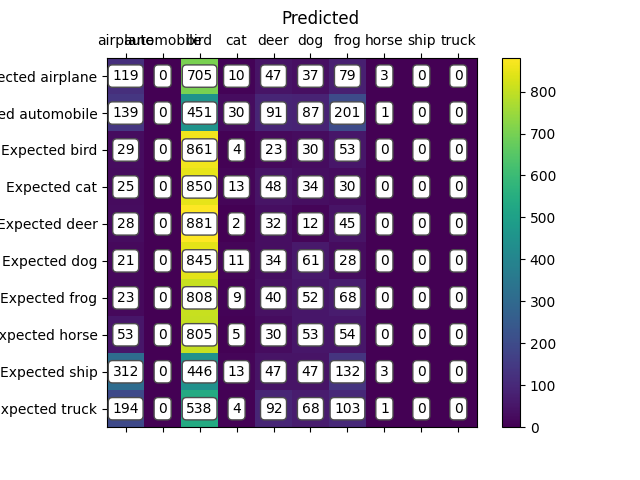
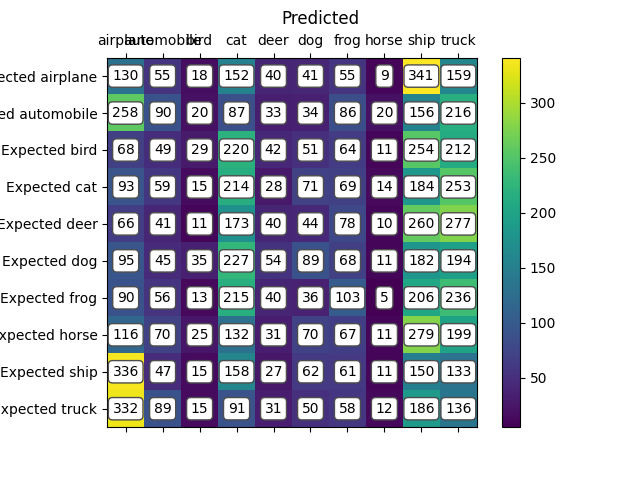
Fix AdaBoost errors v3

diff --git a/Assignment 4/Code/AdaBoost.py b/Assignment 4/Code/AdaBoost.py
@@ -215,15 +215,15 @@ def train_weak_classifier(weak_classifier: WeakClassifier, feature_per_image: np
     :return:
     """
 
-    possible_thresholds = np.unique(feature_per_image)
-    translation = np.min(possible_thresholds)
-    scale = np.max(possible_thresholds - translation)
+    all_thresholds = np.unique(feature_per_image)
+    translation = np.min(all_thresholds)
+    scale = np.max(all_thresholds - translation)
 
-    MAX_ITER = 5
-    for i in range(MAX_ITER):
+    SCALE_FACTOR = 10
+    for i in range(SCALE_FACTOR):
         # Find the best threshold
         parity = 1
-        threshold = (i / MAX_ITER) * scale + translation
+        threshold = (i / SCALE_FACTOR) * scale + translation
         predictions = np.zeros(len(binary_training_labels))
         predictions[feature_per_image >= threshold] = 1
         error = np.sum(weights[binary_training_labels != predictions])
@@ -262,16 +262,16 @@ def train_binary_classifier(haar_features: np.ndarray, binary_training_labels: n
         weak_classifier = WeakClassifier()
         for feature_index in range(haar_features.shape[1]):
             single_feature = haar_features[:, feature_index]
-            if np.all(single_feature == single_feature[0]):
+            if np.unique(single_feature).size < (l + m) / 10:
                 continue
             train_weak_classifier(weak_classifier, single_feature, feature_index,
                                   binary_training_labels, weights)
         beta = weak_classifier.error / (1 - weak_classifier.error)
-        weak_classifier.alpha = np.log(1 / beta)
+        weak_classifier.alpha = np.log((1 / beta))
 
         strong_classifier.append(weak_classifier)
         predictions = np.zeros(len(binary_training_labels), dtype=np.uint8)
-        predictions[weak_classifier.parity * haar_features[:, weak_classifier.feature_index] <
+        predictions[weak_classifier.parity * haar_features[:, weak_classifier.feature_index] >=
                     weak_classifier.parity * weak_classifier.threshold] = 1
         print(weak_classifier.error)
 
@@ -286,7 +286,7 @@ def train_binary_classifier(haar_features: np.ndarray, binary_training_labels: n
 
 
 def train(training_data: np.ndarray, training_labels: np.ndarray, labels: np.ndarray, number_of_weak_classifiers: int =
-10):
+50):
     """
     Trains the AdaBoost classifier
     :param training_data:
@@ -356,7 +356,7 @@ def classify_image(features: np.ndarray, binary_classifiers: np.ndarray, correct
     assert sum_alpha is not np.nan, "Sum Alpha is NaN"
     assert sum_alpha is not np.inf, "Sum Alpha is Inf"
     prediction = np.argmax(scores)
-    print(f"Alpha_H: {sum_alpha_h} | Alpha: {sum_alpha}")
+    # print(f"Alpha_H: {sum_alpha_h} | Alpha: {sum_alpha}")
     return prediction
 
 
